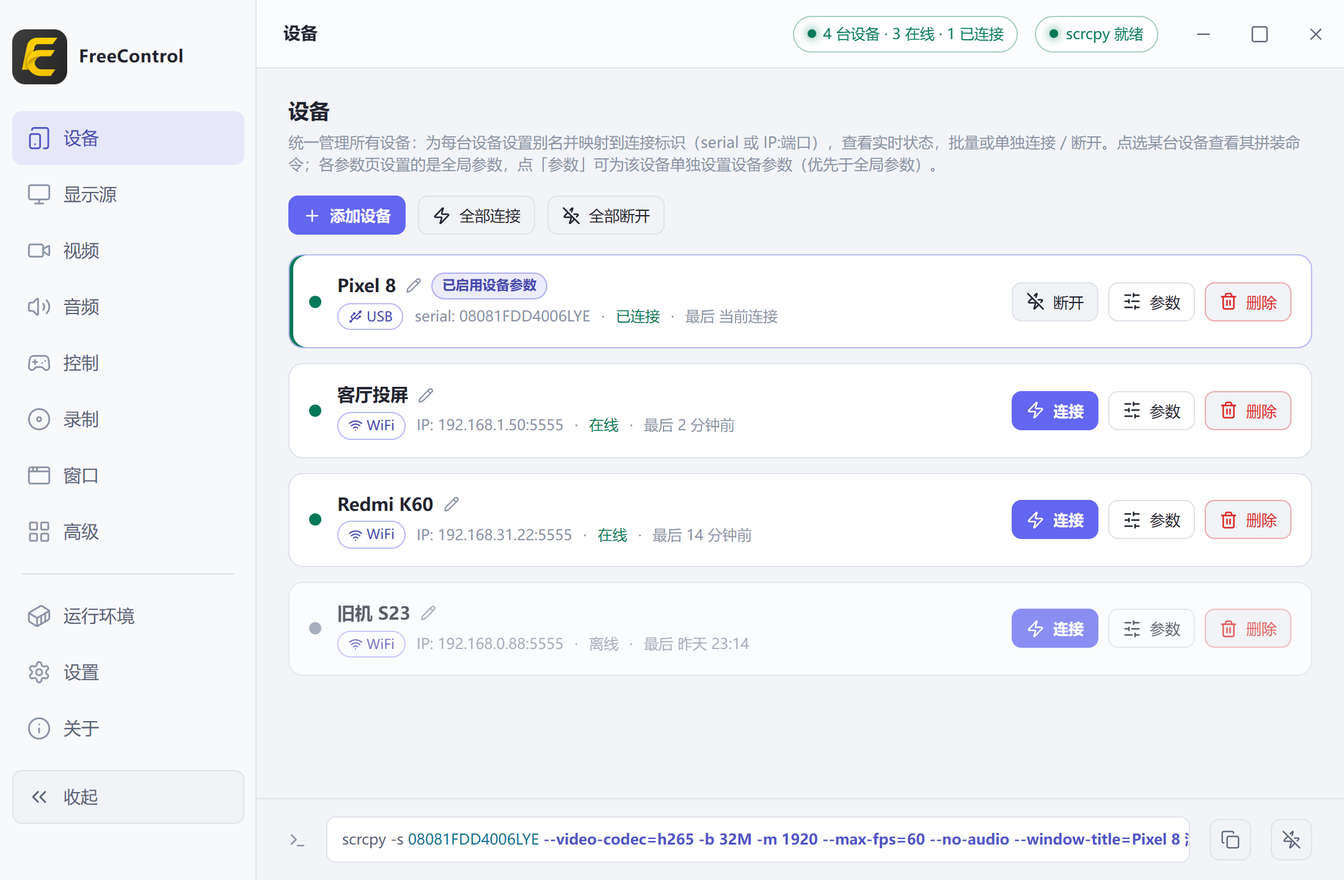
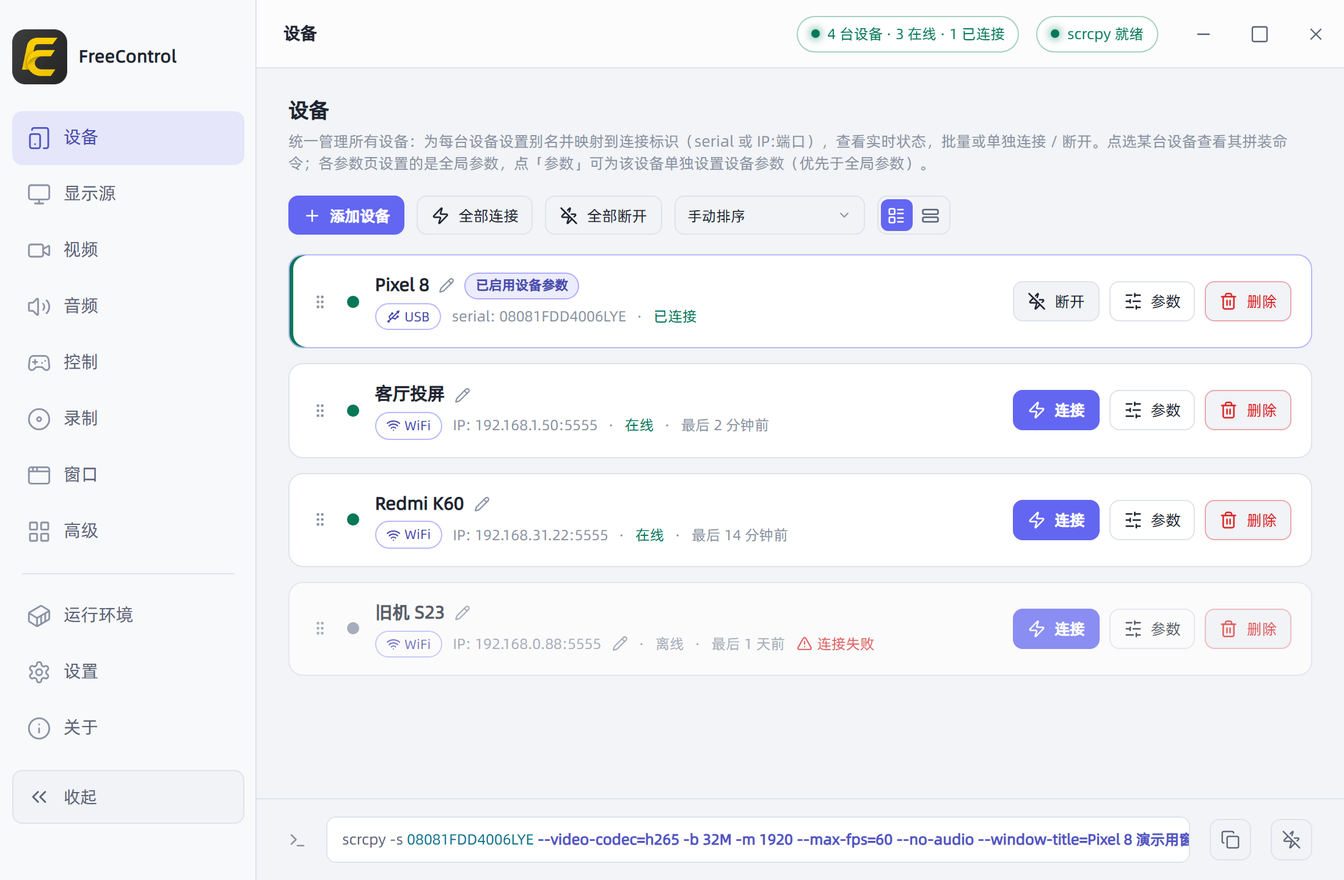
发行：官网快照跟到 v2.4.1
从产品仓 d9b0604（v2.4.1）同步原型、四张设备页截图与版本标记，版本产物仍在构建期取 GitHub 最新发行。

diff --git a/public/preview/launcher-prototype.html b/public/preview/launcher-prototype.html
@@ -139,7 +139,7 @@
   body { user-select: none; cursor: default; }
   input, textarea, [contenteditable] { user-select: text; cursor: auto; }
   /* 技术值白名单：作为值**独立承载**、会被用户带出应用的技术文本一律保持可选中。
-     说明文字里的【裸】技术值（如提示语中的 %APPDATA%/… 目录约定、设备卡上的 PID 与窗口坐标）
+     说明文字里的【裸】技术值（如提示语中的 %APPDATA%/… 目录约定、设备卡上的最后连接时间）
      不在其列 —— 本规则只认有独立承载的技术值，不为一句提示去改文案结构（见 spec 的做法约定）。
      下列选择器在本原型里**没有对应元素**，故不在此列出（产品侧有）：.log-view / .sess-cmd /
      .sess-cmd code 的宿主、.env-path、.env-reason-cmp、.flabel code —— 原型没有会话输出那一块
@@ -629,7 +629,8 @@
   .range-val { min-width: 70px; text-align: right; font-variant-numeric: tabular-nums; color: var(--text); font-size: 13px; }
 
   /* ---------- Device cards (merged: management + connection) ---------- */
-  .dev-toolbar { display: flex; align-items: center; gap: 10px; margin-bottom: 16px; flex-wrap: wrap; }
+  .dev-toolbar { display: flex; align-items: center; gap: 10px; margin-bottom: 16px; flex-wrap: wrap; --dev-toolbar-control-h: 32px; }
+  .dev-toolbar .btn { height: var(--dev-toolbar-control-h); }
   .dev-toolbar .spacer { flex: 1; }
   /* 批量结果的就地反馈位：可收缩，长结果在本行内换行，不把按钮挤走（与产品侧同名规则同值） */
   .dev-toolbar .status-text { min-width: 0; }
@@ -645,10 +646,27 @@
   .dev-card.sel { border-color: var(--accent-line); }
   /* 既已连接又被选中：不再需要合并声明 —— 色条走 box-shadow、选中走边框色，两者各占一个属性。 */
   .dev-card.offline { opacity: .72; }
+  /* 列表密度控件（与产品侧 .dev-density 同形）：两枚方形图标按钮，占工具栏统一高度。 */
+  .dev-density { flex: none; height: var(--dev-toolbar-control-h); align-items: stretch; padding: 2px; gap: 2px; }
+  .dev-density button { width: 26px; height: 100%; padding: 0; display: inline-flex; align-items: center; justify-content: center; }
+  .dev-density button svg { width: 15px; height: 15px; }
+  /* 简洁卡片：单行只留手柄、状态点、名称（含连接方式标识与问题图标）与连接 / 参数入口。 */
+  .dev-card.compact { padding: 9px 14px; }
+  .dev-card.compact .dev-main { gap: 10px; }
+  .dev-card.compact .dev-alias { gap: 8px; flex-wrap: nowrap; }
+  /* 简洁模式必须保持单行：长别名截断，不把标识或问题图标挤到第二行。 */
+  .dev-card.compact .dev-alias .a-text { min-width: 0; overflow: hidden; text-overflow: ellipsis; white-space: nowrap; }
+  /* 行内问题指示：详细模式是「图标 + 短标签」，简洁模式只有图标；完整原因走提示层。
+     详情不参与行布局，行高因此不随失败原文长度增长。 */
+  .dev-issue { display: inline-flex; align-items: center; gap: 4px; font-size: 12px; line-height: 1.5; color: var(--danger); flex: none; white-space: nowrap; cursor: default; border-radius: 4px; }
+  .dev-issue.warn { color: var(--warn); }
+  .dev-issue svg { width: 13px; height: 13px; flex: none; stroke: currentColor; }
+  .dev-issue.icon-only { gap: 0; }
+  .dev-issue:focus-visible { outline: 2px solid var(--accent-line); outline-offset: 2px; }
   /* 排序方式选择器（与产品侧 DeviceSortSelect 同形）：固定宽度，窄窗口随工具栏折行。 */
   .dev-sort { position: relative; flex: none; width: 156px; }
-  .dev-sort .sel-trigger { padding: 7px 26px 7px 10px; font-size: 12px; }
-  .dev-sort-value { display: flex; align-items: center; gap: 4px; }
+  .dev-sort .sel-trigger { display: inline-flex; align-items: center; height: var(--dev-toolbar-control-h); padding: 0 26px 0 10px; font-size: 12px; }
+  .dev-sort-value { display: flex; flex: 1; min-width: 0; align-items: center; gap: 4px; }
   .dev-sort-label { flex: 1; min-width: 0; overflow: hidden; white-space: nowrap; text-overflow: ellipsis; }
   /* 方向箭头只占文字行内位置；右侧下拉指示仍用绝对定位。 */
   .dev-sort .dev-sort-arrow { position: static; flex: none; width: 12px; height: 12px; margin-top: 0; right: auto; top: auto; }
@@ -682,6 +700,10 @@
   .dev-alias .edit:hover { color: var(--accent-hover); }
   .dev-alias .edit svg { width: 13px; height: 13px; stroke: currentColor; }
   .dev-alias input { font-weight: 600; font-size: 14.5px; padding: 3px 7px; width: 200px; }
+  .dev-meta .edit { color: var(--text-faint); cursor: pointer; display: inline-flex; transition: color .16s; }
+  .dev-meta .edit:hover { color: var(--accent-hover); }
+  .dev-meta .edit svg { width: 13px; height: 13px; stroke: currentColor; }
+  input.dev-cid-input { width: 74px; height: 18px; padding: 0 4px; font-size: 12px; font-variant-numeric: tabular-nums; }
   /* 别名行里的标识：外框必须与别名的行盒等高（14.5px × 行高 1.5 = 21.75px；
      15.75 = 21.75 − 2×2 内边距 − 2×1 边框）。否则标识一出现就把该行由 21.75 顶到 22.5，
      整张卡片与下方内容跟着位移 0.75px。与产品侧 app.css 的同名规则同一取值。 */
@@ -1093,6 +1115,10 @@
               <button class="sel-opt dev-sort-opt" type="button" role="option" tabindex="-1" data-v="name"><span class="dev-sort-opt-label">按设备名称</span><span class="dev-sort-arrow" aria-hidden="true"></span></button>
               <button class="sel-opt dev-sort-opt" type="button" role="option" tabindex="-1" data-v="lastConnected"><span class="dev-sort-opt-label">按最后连接时间</span><span class="dev-sort-arrow" aria-hidden="true"></span></button>
             </div>
+          </div>
+          <div class="seg dev-density" id="devDensity" role="group" aria-label="设备显示方式">
+            <button type="button" class="active" data-density="detailed" aria-pressed="true" aria-label="详细" data-tip="显示完整设备信息"><i data-lucide="layout-list"></i></button>
+            <button type="button" data-density="compact" aria-pressed="false" aria-label="简洁" data-tip="仅显示关键信息"><i data-lucide="stretch-horizontal"></i></button>
           </div>
           <div class="spacer"></div>
           <!-- 批量操作的结果就地呈现在本行内（与产品侧 DevicePage 工具栏的反馈位同槽，不另起一行） -->
@@ -2117,6 +2143,7 @@
     "info": ["svg",{},[["circle",{"cx":"12","cy":"12","r":"10"}],["path",{"d":"M12 16v-4"}],["path",{"d":"M12 8h.01"}]]],
     "key-round": ["svg",{},[["path",{"d":"M2.586 17.414A2 2 0 0 0 2 18.828V21a1 1 0 0 0 1 1h3a1 1 0 0 0 1-1v-1a1 1 0 0 1 1-1h1a1 1 0 0 0 1-1v-1a1 1 0 0 1 1-1h.172a2 2 0 0 0 1.414-.586l.814-.814a6.5 6.5 0 1 0-4-4z"}],["circle",{"cx":"16.5","cy":"7.5","r":".5","fill":"currentColor"}]]],
     "layout-grid": ["svg",{},[["rect",{"width":"7","height":"7","x":"3","y":"3","rx":"1"}],["rect",{"width":"7","height":"7","x":"14","y":"3","rx":"1"}],["rect",{"width":"7","height":"7","x":"14","y":"14","rx":"1"}],["rect",{"width":"7","height":"7","x":"3","y":"14","rx":"1"}]]],
+    "layout-list": ["svg",{},[["rect",{"width":"7","height":"7","x":"3","y":"3","rx":"1"}],["rect",{"width":"7","height":"7","x":"3","y":"14","rx":"1"}],["path",{"d":"M14 4h7"}],["path",{"d":"M14 9h7"}],["path",{"d":"M14 15h7"}],["path",{"d":"M14 20h7"}]]],
     "maximize-2": ["svg",{},[["polyline",{"points":"15 3 21 3 21 9"}],["polyline",{"points":"9 21 3 21 3 15"}],["line",{"x1":"21","x2":"14","y1":"3","y2":"10"}],["line",{"x1":"3","x2":"10","y1":"21","y2":"14"}]]],
     "minimize-2": ["svg",{},[["polyline",{"points":"4 14 10 14 10 20"}],["polyline",{"points":"20 10 14 10 14 4"}],["line",{"x1":"14","x2":"21","y1":"10","y2":"3"}],["line",{"x1":"3","x2":"10","y1":"21","y2":"14"}]]],
     "minus": ["svg",{},[["path",{"d":"M5 12h14"}]]],
@@ -2133,6 +2160,7 @@
     "shuffle": ["svg",{},[["path",{"d":"M2 18h1.4c1.3 0 2.5-.6 3.3-1.7l6.1-8.6c.7-1.1 2-1.7 3.3-1.7H22"}],["path",{"d":"m18 2 4 4-4 4"}],["path",{"d":"M2 6h1.9c1.5 0 2.9.9 3.6 2.2"}],["path",{"d":"M22 18h-5.9c-1.3 0-2.6-.7-3.3-1.8l-.5-.8"}],["path",{"d":"m18 14 4 4-4 4"}]]],
     "sliders-horizontal": ["svg",{},[["line",{"x1":"21","x2":"14","y1":"4","y2":"4"}],["line",{"x1":"10","x2":"3","y1":"4","y2":"4"}],["line",{"x1":"21","x2":"12","y1":"12","y2":"12"}],["line",{"x1":"8","x2":"3","y1":"12","y2":"12"}],["line",{"x1":"21","x2":"16","y1":"20","y2":"20"}],["line",{"x1":"12","x2":"3","y1":"20","y2":"20"}],["line",{"x1":"14","x2":"14","y1":"2","y2":"6"}],["line",{"x1":"8","x2":"8","y1":"10","y2":"14"}],["line",{"x1":"16","x2":"16","y1":"18","y2":"22"}]]],
     "square": ["svg",{},[["rect",{"width":"18","height":"18","x":"3","y":"3","rx":"2"}]]],
+    "stretch-horizontal": ["svg",{},[["rect",{"width":"20","height":"6","x":"2","y":"4","rx":"2"}],["rect",{"width":"20","height":"6","x":"2","y":"14","rx":"2"}]]],
     "tablet-smartphone": ["svg",{},[["rect",{"width":"10","height":"14","x":"3","y":"8","rx":"2"}],["path",{"d":"M5 4a2 2 0 0 1 2-2h12a2 2 0 0 1 2 2v16a2 2 0 0 1-2 2h-2.4"}],["path",{"d":"M8 18h.01"}]]],
     "terminal": ["svg",{},[["polyline",{"points":"4 17 10 11 4 5"}],["line",{"x1":"12","x2":"20","y1":"19","y2":"19"}]]],
     "trash-2": ["svg",{},[["path",{"d":"M3 6h18"}],["path",{"d":"M19 6v14c0 1-1 2-2 2H7c-1 0-2-1-2-2V6"}],["path",{"d":"M8 6V4c0-1 1-2 2-2h4c1 0 2 1 2 2v2"}],["line",{"x1":"10","x2":"10","y1":"11","y2":"17"}],["line",{"x1":"14","x2":"14","y1":"11","y2":"17"}]]],
@@ -2591,7 +2619,8 @@
   "serial 可留空：设备会先登记，待检测到唯一一台未登记的 USB 设备后自动补全连接标识。": "The serial can be empty: the device is registered first, and its connection ID is filled in after a unique unregistered USB device is detected.",
   "IP 地址 : 端口": "IP address : port",
   "端口": "Port",
-  "Android 11 及以上需先在设备上完成配对，可选择「配对码」方式；无线调试的连接端口是随机的，一般不是 5555。已知连接地址时可直接保存。": "On Android 11 and newer, pair the device first using Pairing code. The wireless debugging connection port is random and usually not 5555. If you know the connection address, you can save it directly.",
+  "修改端口": "Edit port",
+    "Android 11 及以上需先在设备上完成配对，可选择「配对码」方式；无线调试的连接端口是随机的，一般不是 5555。已知连接地址时可直接保存。": "On Android 11 and newer, pair the device first using Pairing code. The wireless debugging connection port is random and usually not 5555. If you know the connection address, you can save it directly.",
   "局域网设备": "Devices on the network",
   "扫描局域网设备": "Scan network",
   "尚未扫描。": "Not scanned yet.",
@@ -2748,7 +2777,7 @@
   "2 分钟前": "2 minutes ago",
   "14 分钟前": "14 minutes ago",
   "旧机 S23": "Old S23",
-  "昨天 23:14": "yesterday 23:14",
+  "1 天前": "1 day ago",
   "请先选择一台设备": "Select a device first",
   "断开该设备的会话": "Disconnect this device",
   "当前无法连接该设备": "This device cannot be connected right now",
@@ -2757,12 +2786,15 @@
   "离线": "Offline",
   "暂无设备，请点击左上角「添加设备」。": "No devices yet. Use Add device in the top left.",
   "(待检测)": "(pending)",
-  "点「连接」会先尝试重新连上这台设备，成功后再打开投屏": "Connect first tries to reconnect this device, then opens the mirror",
+  "点「连接」会先尝试重连；端口变了会自动重新解析并再试一次": "Connect first retries the link; if the port changed, it re-resolves and retries once",
+  "手动填写该设备当前的连接端口；保存后连接标识随之更新，不会自动连接": "Enter the device's current connection port; the connection ID updates after saving and no connection is attempted",
+  "请输入 1–65535 的整数端口": "Enter an integer port from 1 to 65535",
+  "连接标识 {0} 已被其他设备使用": "Connection ID {0} is already used by another device",
   "设备离线：adb 中未检测到该设备，无法连接": "The device is offline: adb does not see it, so it cannot connect",
   "已启用设备参数": "Device parameters on",
   "断开": "Disconnect",
   "连接": "Connect",
-  "最后 {12}": "Last {12}",
+  "最后 {0}": "Last {0}",
   "参数": "Parameters",
   "删除": "Delete",
   "重命名": "Rename",
@@ -2772,6 +2804,12 @@
   "按设备名称": "Device name",
   "按最后连接时间": "Last connected",
   "拖动调整设备顺序": "Drag to reorder devices",
+  "设备显示方式": "Device display",
+  "详细": "Detailed",
+  "简洁": "Compact",
+  "显示完整设备信息": "Show full device details",
+  "仅显示关键信息": "Show key details only",
+  "连接失败": "Connection failed",
   "已切换为手动排序": "Switched to manual order",
   "设置该设备的设备参数（优先于全局参数；未填写的项沿用全局参数）": "Set device parameters for this device (they take priority over global parameters; empty items use the global value)",
   "删除该设备（连带清除其设备参数）": "Delete this device (also clears its device parameters)",
@@ -3095,9 +3133,9 @@
      正式实现中：该值由 Tauri 的 getVersion()（取 tauri.conf.json 的构建期版本）下发，
      前端一律通过该 API 读取，页面里不得写版本字面量（见 about-page design D5）。
      ============================================================ */
-  const APP_VERSION = '2.4.0';
+  const APP_VERSION = '2.4.1';
   // 原型演示用的模拟最新版；产品侧由 GitHub 最新正式发行下发，不写死在界面里。
-  const UPDATE_LATEST_VERSION = '2.4.1';
+  const UPDATE_LATEST_VERSION = '2.4.2';
 
   // 每台设备的参数覆盖（仅覆盖的字段）
   const overrides = {};
@@ -3116,13 +3154,20 @@
     { id:'d1', alias:'Pixel 8',     type:'usb',  serial:'08081FDD4006LYE',           status:'connected', last:'当前连接', lastAt:demoNow },
     { id:'d2', alias:'客厅投屏',     type:'wifi', ip:'192.168.1.50',  port:5555,      status:'idle',      last:'2 分钟前', lastAt:demoNow - 2*60*1000 },
     { id:'d3', alias:'Redmi K60',    type:'wifi', ip:'192.168.31.22', port:5555,      status:'idle',      last:'14 分钟前', lastAt:demoNow - 14*60*1000 },
-    { id:'d4', alias:'旧机 S23',     type:'wifi', ip:'192.168.0.88',  port:5555,      status:'offline',   last:'昨天 23:14', lastAt:demoNow - 24*60*60*1000 }
+    { id:'d4', alias:'旧机 S23',     type:'wifi', ip:'192.168.0.88',  port:5555,      status:'offline',   last:'1 天前', lastAt:demoNow - 24*60*60*1000 }
   ];
   // 排序偏好（与产品侧 deviceList 同义）：手动顺序独立于 devices 的注册顺序。
   let manualOrder = devices.map(d => d.id);
   let sortMode = 'manual';
   const sortDirs = { status:'asc', name:'asc', lastConnected:'desc' };
   let selectedId = 'd1';
+  /* 列表密度（与产品侧 ui.deviceListDensity 同义）：原型只演示两档呈现，不落盘。 */
+  let density = 'detailed';
+  /* 问题指示的演示状态（产品侧来自真实的连接失败 / 后端警告）。技术原文保持英文，
+     与产品提示层里的 adb 原文同口径；只影响这一台设备，不改动其它演示数据。 */
+  const DEMO_ISSUES = {
+    d4: { tone:'danger', label:'连接失败', detail:'failed to connect to 192.168.0.88:5555: Connection refused' }
+  };
   let uid = 100;
 
   /* ===================== 工具 ===================== */
@@ -3403,6 +3448,16 @@
     renderDeviceList();
     devSortTrigger.focus();
   }
+
+  /* ---------- 列表密度：两档呈现（config ㊴） ---------- */
+  document.querySelectorAll('#devDensity [data-density]').forEach(b=>{
+    b.addEventListener('click', ()=>{
+      if (density === b.dataset.density) return;
+      density = b.dataset.density;
+      syncDensityUI();
+      renderDeviceList();
+    });
+  });
 
   devSortTrigger.addEventListener('click', ()=>{
     selOpenEl === devSortEl ? selClose(devSortEl) : selOpen(devSortEl, 1);
@@ -3724,6 +3779,20 @@
     lucide.createIcons();
   }
 
+  function syncDensityUI(){
+    const el=document.getElementById('devDensity'); if(!el) return;
+    el.querySelectorAll('[data-density]').forEach(b=>{
+      const on = b.dataset.density===density;
+      b.classList.toggle('active', on);
+      b.setAttribute('aria-pressed', on ? 'true' : 'false');
+    });
+  }
+  function issueHTML(d, iconOnly){
+    const it=DEMO_ISSUES[d.id]; if(!it) return '';
+    const label=escapeHtml(it.label), detail=escapeHtml(it.detail);
+    return `<span class="dev-issue ${it.tone}${iconOnly?' icon-only':''}" tabindex="0" role="img" aria-label="${label}" data-tip="${detail}"><i data-lucide="triangle-alert"></i>${iconOnly?'':label}</span>`;
+  }
+
   function renderDeviceList(){
     const box=document.getElementById('deviceList'); box.innerHTML='';
     if (!devices.length){ box.innerHTML='<div class="ov-empty">暂无设备，请点击左上角「添加设备」。</div>'; }
@@ -3732,16 +3801,38 @@
       const idEl = d.type==='usb' ? `serial: ${d.serial||'(待检测)'}` : `IP: ${d.ip}:${d.port}`;
       const oc = overrideCount(d.id);
       const ovOn = isOvEnabled(d.id);
+      const compact = density === 'compact';
       const card=document.createElement('div');
-      card.className='dev-card'+(d.id===selectedId?' sel':'')+(d.status==='connected'?' connected':'')+(d.status==='offline'?' offline':'');
+      card.className='dev-card'+(compact?' compact':'')+(d.id===selectedId?' sel':'')+(d.status==='connected'?' connected':'')+(d.status==='offline'?' offline':'');
       card.dataset.id=d.id;
       const canConnect = canConnectDevice(d);
       /* 连接 / 断开入口的提示逐字取产品侧 DevicePage 的 `connectHint`：可用时说这一步会做什么，
          不可用时把原因写在按钮上。按钮可能被禁用（禁用元素不派发指针事件），故与产品同款套 .tip-host。 */
       const connTip = d.status==='connected' ? '断开该设备的会话'
-        : canConnect ? (d.status==='offline' ? '点「连接」会先尝试重新连上这台设备，成功后再打开投屏' : '连接该设备')
+        : canConnect ? (d.status==='offline' ? '点「连接」会先尝试重连；端口变了会自动重新解析并再试一次' : '连接该设备')
         : '设备离线：adb 中未检测到该设备，无法连接';
-      card.innerHTML=`
+      const kindTag = `<span class="tag ${d.type}"><i data-lucide="${d.type==='usb'?'usb':'wifi'}"></i>${d.type==='usb'?'USB':'WiFi'}</span>`;
+      const issue = issueHTML(d, compact);
+      const connectBtn = d.status==='connected'
+        ? `<span class="tip-host" data-tip="${connTip}"><button class="btn sm" data-disc="${d.id}"><i data-lucide="zap-off"></i>断开</button></span>`
+        : `<span class="tip-host" data-tip="${connTip}"><button class="btn sm primary" data-conn="${d.id}" ${canConnect?'':'disabled'}><i data-lucide="zap"></i>连接</button></span>`;
+      const paramsBtn = `<button class="btn sm ghost" data-ov="${d.id}" data-tip="设置该设备的设备参数（优先于全局参数；未填写的项沿用全局参数）"><i data-lucide="sliders-horizontal"></i>参数</button>`;
+      card.innerHTML = compact ? `
+        <div class="dev-main" data-pick="${d.id}">
+          <button class="dev-handle" type="button" data-handle="${d.id}" aria-label="拖动调整设备顺序" aria-disabled="false"><i data-lucide="grip-vertical"></i></button>
+          <span class="status-dot ${scls}"></span>
+          <div class="dev-id">
+            <div class="dev-alias">
+              <span class="a-text">${escapeHtml(d.alias)}</span>
+              ${kindTag}
+              ${issue}
+            </div>
+          </div>
+          <div class="dev-actions">
+            ${connectBtn}
+            ${paramsBtn}
+          </div>
+        </div>` : `
         <div class="dev-main" data-pick="${d.id}">
           <button class="dev-handle" type="button" data-handle="${d.id}" aria-label="拖动调整设备顺序" aria-disabled="false"><i data-lucide="grip-vertical"></i></button>
           <span class="status-dot ${scls}"></span>
@@ -3752,17 +3843,22 @@
               ${oc&&ovOn?`<span class="tag soft">已启用设备参数</span>`:''}
             </div>
             <div class="dev-meta">
-              <span class="tag ${d.type}"><i data-lucide="${d.type==='usb'?'usb':'wifi'}"></i>${d.type==='usb'?'USB':'WiFi'}</span>
-              <span class="dev-cid">${escapeHtml(idEl)}</span><span>·</span>
+              ${kindTag}
+              ${portEditId===d.id
+                ? `<span class="dev-cid">${escapeHtml(d.ip)}:</span><input class="dev-cid-input" type="number" min="1" max="65535" step="1" value="${d.port}" aria-label="修改端口">`
+                : `<span class="dev-cid">${escapeHtml(idEl)}</span>${d.type==='wifi' && d.status==='offline'
+                    ? `<span class="edit" data-cid-edit="${d.id}" role="button" tabindex="0" aria-label="修改端口" data-tip="手动填写该设备当前的连接端口；保存后连接标识随之更新，不会自动连接"><i data-lucide="pencil"></i></span>`
+                    : ''}`}
+              <span>·</span>
               <span class="status-text ${scls}">${stxt}</span>
-              <span>·</span><span>最后 ${d.last}</span>
+              ${d.status==='connected' ? '' : `<span>·</span><span>最后 ${d.last}</span>`}
+              ${portErrors[d.id]?`<span class="status-text offline">${escapeHtml(portErrors[d.id])}</span>`:''}
+              ${issue}
             </div>
           </div>
           <div class="dev-actions">
-            ${d.status==='connected'
-              ? `<span class="tip-host" data-tip="${connTip}"><button class="btn sm" data-disc="${d.id}"><i data-lucide="zap-off"></i>断开</button></span>`
-              : `<span class="tip-host" data-tip="${connTip}"><button class="btn sm primary" data-conn="${d.id}" ${canConnect?'':'disabled'}><i data-lucide="zap"></i>连接</button></span>`}
-            <button class="btn sm ghost" data-ov="${d.id}" data-tip="设置该设备的设备参数（优先于全局参数；未填写的项沿用全局参数）"><i data-lucide="sliders-horizontal"></i>参数</button>
+            ${connectBtn}
+            ${paramsBtn}
             <button class="btn sm danger" data-del="${d.id}" data-tip="删除该设备（连带清除其设备参数）"><i data-lucide="trash-2"></i>删除</button>
           </div>
         </div>`;
@@ -3771,10 +3867,20 @@
     });
     lucide.createIcons();
     box.querySelectorAll('[data-pick]').forEach(el=>el.addEventListener('click', e=>{
-      if (e.target.closest('[data-conn],[data-disc],[data-ov],[data-del],[data-edit],[data-handle]')) return;
+      if (e.target.closest('[data-conn],[data-disc],[data-ov],[data-del],[data-edit],[data-handle],[data-cid-edit],.dev-cid-input')) return;
       selectedId=el.dataset.pick; renderDeviceList(); renderPreview();
     }));
     box.querySelectorAll('[data-edit]').forEach(b=>b.addEventListener('click', e=>{ e.stopPropagation(); startRename(b.dataset.edit); }));
+    box.querySelectorAll('[data-cid-edit]').forEach(b=>b.addEventListener('click', e=>{ e.stopPropagation(); startPortEdit(b.dataset.cidEdit); }));
+    box.querySelectorAll('.dev-cid-input').forEach(inp=>{
+      inp.addEventListener('click', e=>e.stopPropagation());
+      inp.addEventListener('blur', commitPortEdit);
+      inp.addEventListener('keydown', e=>{
+        if (e.key==='Enter') inp.blur();
+        if (e.key==='Escape'){ portCancelled=true; inp.blur(); }
+      });
+    });
+    if (portEditId) { const inp=box.querySelector('.dev-cid-input'); if(inp){ inp.focus(); inp.select(); } }
     box.querySelectorAll('[data-del]').forEach(b=>b.addEventListener('click', e=>{ e.stopPropagation(); deleteDevice(b.dataset.del); }));
     box.querySelectorAll('[data-conn]').forEach(b=>b.addEventListener('click', e=>{ e.stopPropagation(); connectDev(b.dataset.conn); }));
     box.querySelectorAll('[data-disc]').forEach(b=>b.addEventListener('click', e=>{ e.stopPropagation(); disconnectDev(b.dataset.disc); }));
@@ -3792,6 +3898,53 @@
     const inp=document.createElement('input'); inp.value=d.alias; span.replaceWith(inp); inp.focus(); inp.select();
     const commit=()=>{ d.alias=inp.value.trim()||d.alias; renderDeviceList(); renderPreview(); updatePills(); };
     inp.addEventListener('blur', commit); inp.addEventListener('keydown', e=>{ if(e.key==='Enter') inp.blur(); if(e.key==='Escape'){ inp.value=d.alias; commit(); } });
+  }
+  /* ---------- 手动修改无线端口（与产品侧 DevicePage 的内联编辑同源） ---------- */
+  let portEditId = null;
+  let portCancelled = false;
+  const portErrors = {};
+  function portText(key, params={}){
+    const zh = {
+      invalid:'请输入 1–65535 的整数端口',
+      duplicate:`连接标识 ${params.cid} 已被其他设备使用`,
+    };
+    const en = {
+      invalid:'Enter an integer port from 1 to 65535',
+      duplicate:`Connection ID ${params.cid} is already used by another device`,
+    };
+    const lang = window.__protoLang ? window.__protoLang.get().lang : 'zh';
+    return (lang==='en' ? en : zh)[key];
+  }
+  function startPortEdit(id){
+    const d=getDev(id); if(!d) return;
+    delete portErrors[id];
+    portCancelled=false;
+    portEditId=id;
+    renderDeviceList();
+  }
+  function commitPortEdit(){
+    const id=portEditId; if(!id) return;
+    const d=getDev(id);
+    const input=document.querySelector('.dev-cid-input');
+    const raw=input ? input.value : '';
+    const cancelled=portCancelled;
+    portEditId=null; portCancelled=false;
+    if(!d){ renderDeviceList(); return; }
+    const port=Number(raw);
+    if(!cancelled){
+      if(!Number.isInteger(port) || port<1 || port>65535){
+        portErrors[id]=portText('invalid');
+      } else if(port!==d.port){
+        const cid=`${d.ip}:${port}`;
+        if(devices.some(x=>x.id!==d.id && `${x.ip}:${x.port}`===cid)){
+          portErrors[id]=portText('duplicate', { cid });
+        } else {
+          d.port=port;
+          delete portErrors[id];
+        }
+      }
+    }
+    renderDeviceList(); renderPreview(); updatePills();
   }
   function deleteDevice(id){
     if (id===selectedId) selectedId = devices.find(x=>x.id!==id)?.id || null;
@@ -4111,6 +4264,8 @@
   function refreshOvBadge(d){
     const card=document.querySelector(`#deviceList .dev-card[data-id="${d.id}"]`); if(!card) return;
     const alias=card.querySelector('.dev-alias'); if(!alias) return;
+    // 简洁模式不呈现覆盖标识；切换密度后由 renderDeviceList 整体重绘，这里只防旧标识残留。
+    if (density === 'compact') { const stale=alias.querySelector('.tag.soft'); if (stale) stale.remove(); return; }
     let tag=alias.querySelector('.tag.soft');
     // 与产品侧的 isOverrideActive 同源：**有覆盖取值且开关启用**才挂标识，
     // 且只挂一枚、不含项数（拨开关即创建空条目，故「有取值」这道门槛不能省）。
@@ -5892,6 +6047,7 @@
   syncThemeSeg(); applyTheme(); applyAccent(accentHex);
 
   syncSortUI();
+  syncDensityUI();
   renderDeviceList(); renderPreview(); updatePills(); syncNavTitles();
   renderProxyList(); syncProxyAddBtn();
 
